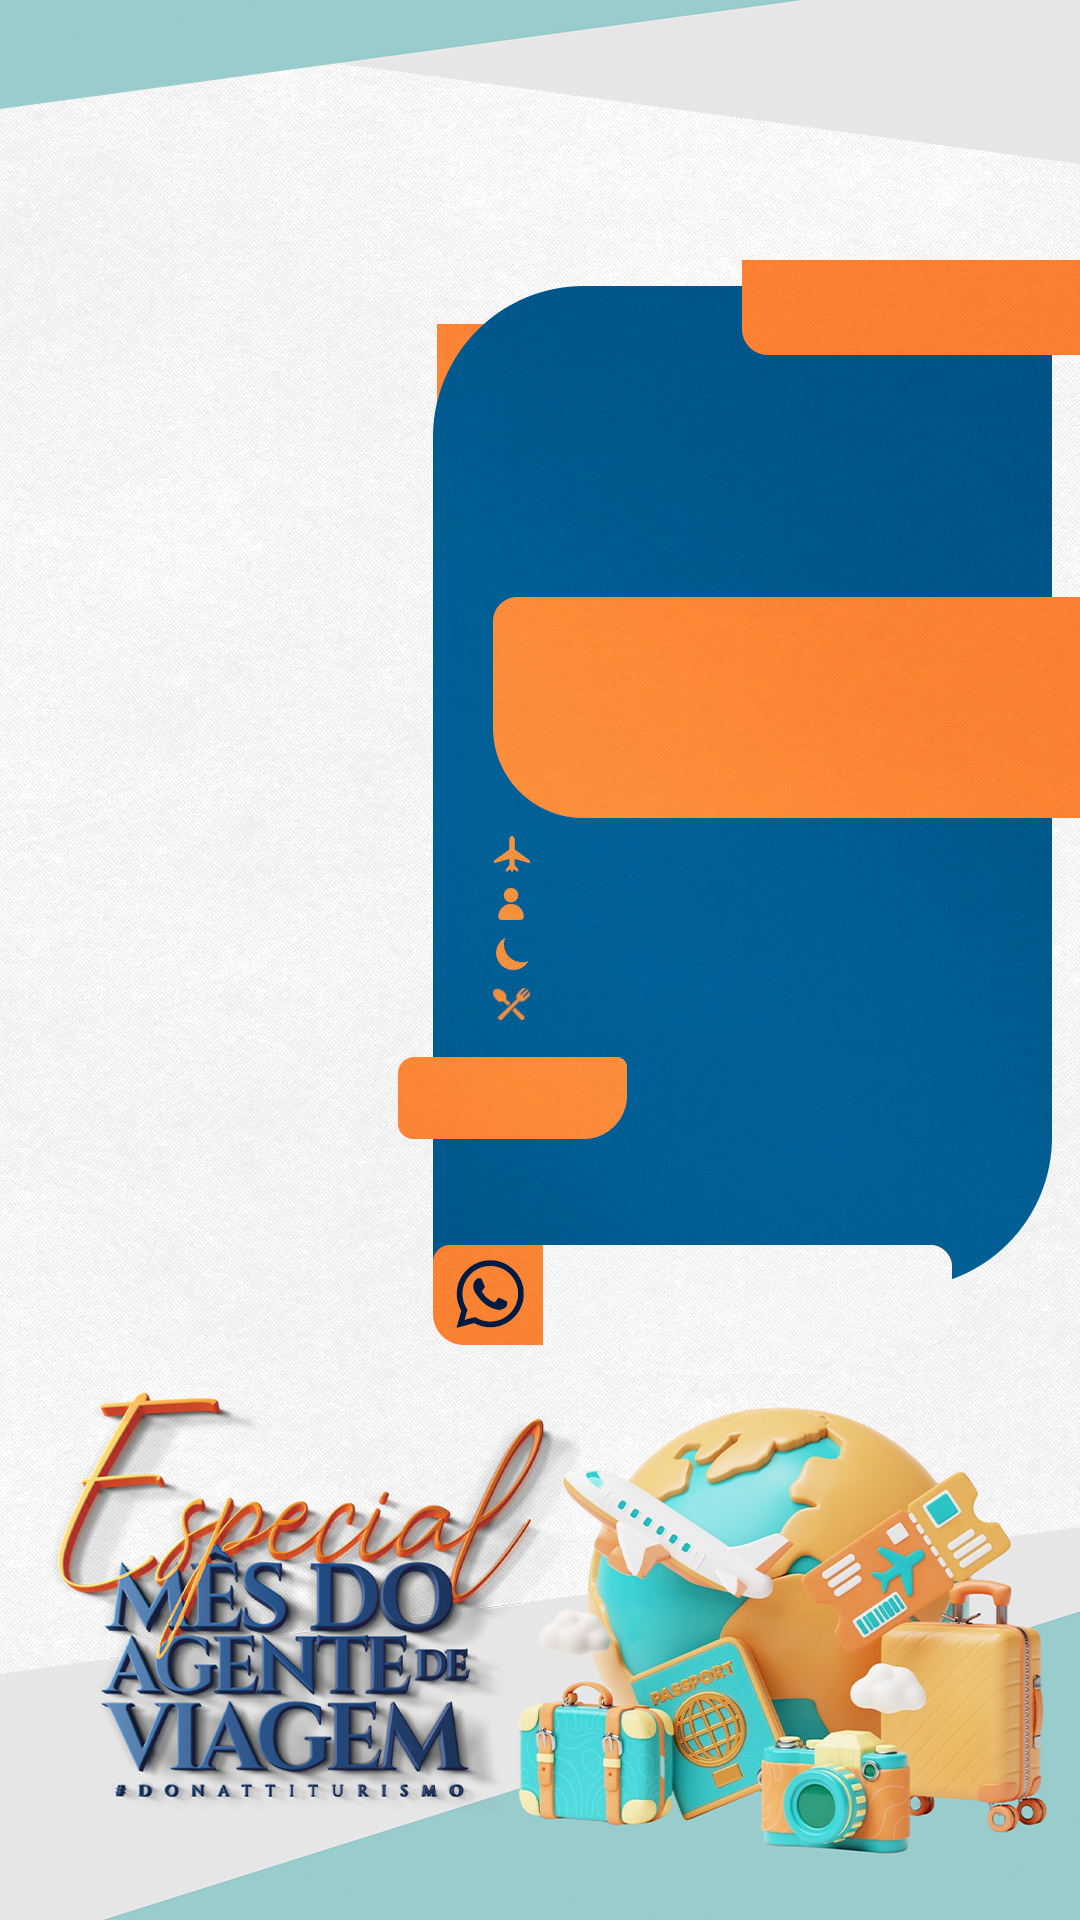
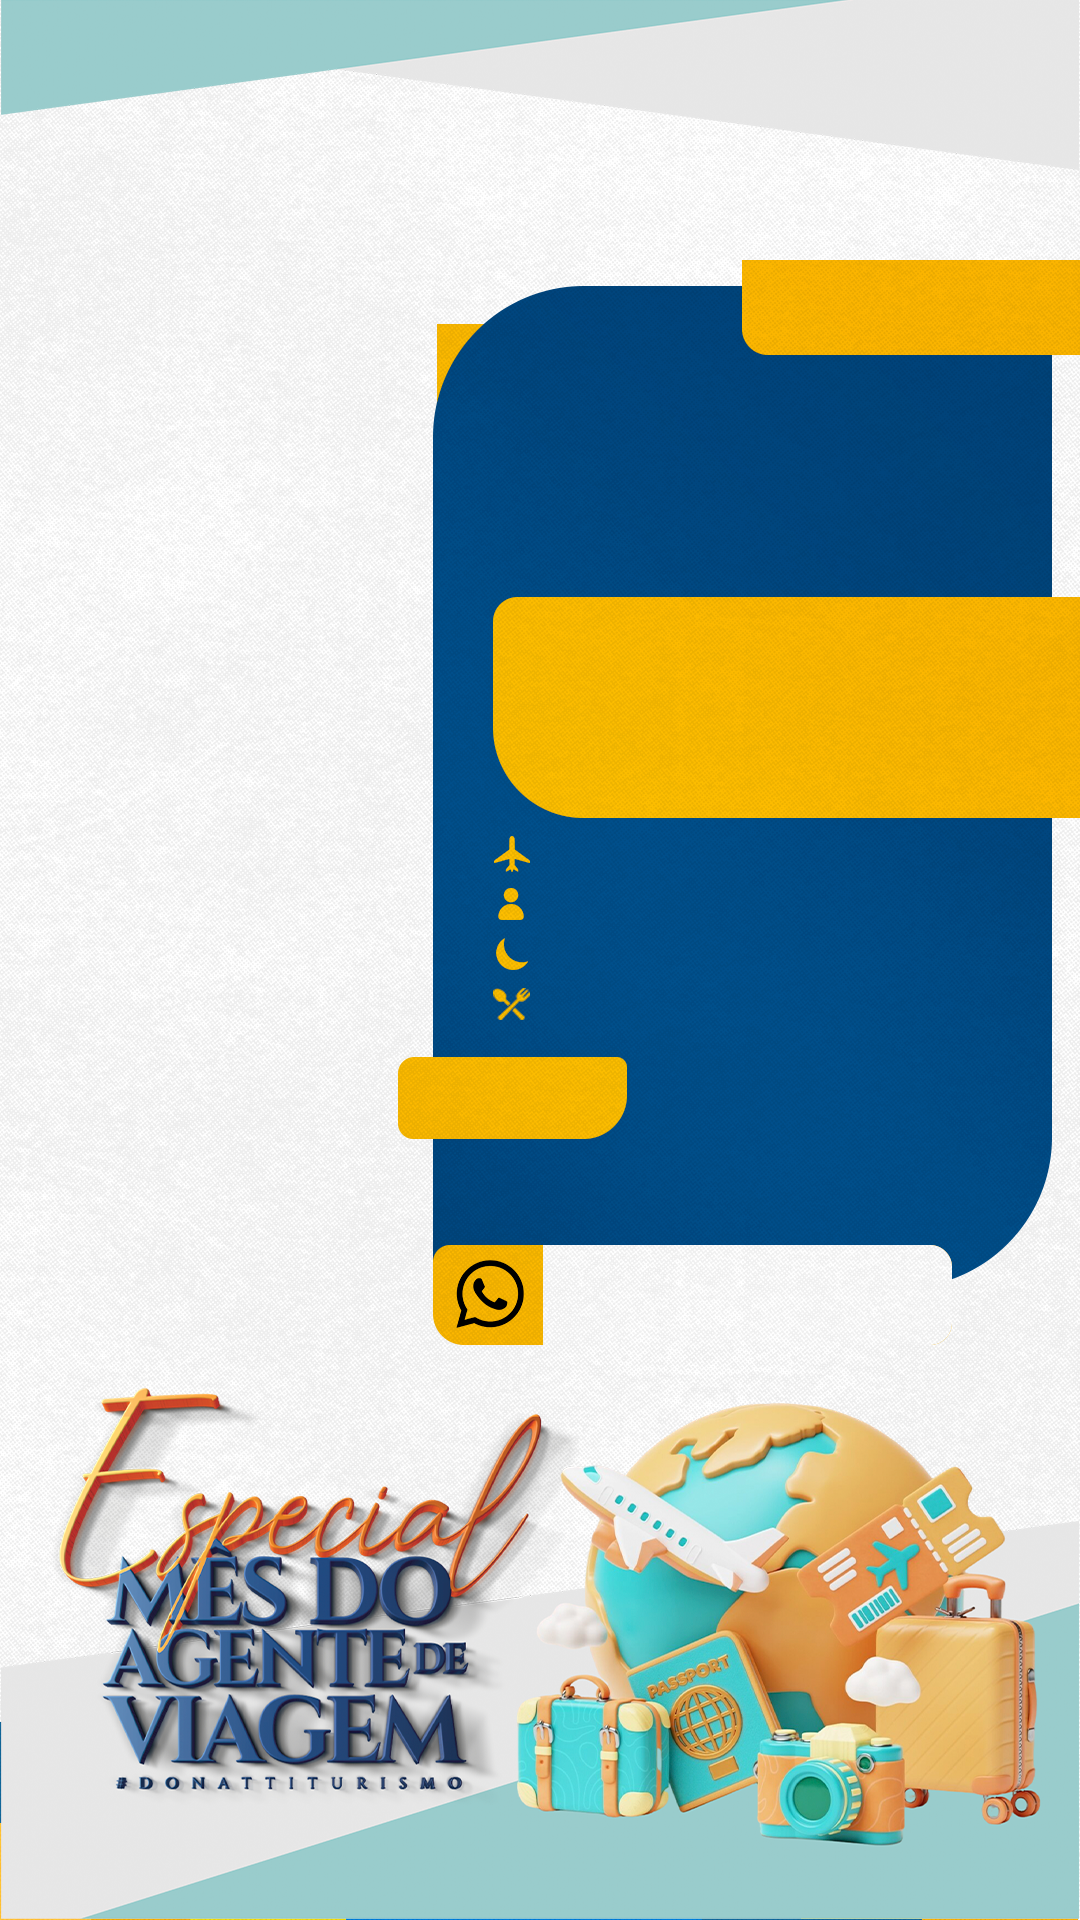
feat: update font colors in PromoImageGenerator for improved visibility

diff --git a/src/app/globals.css b/src/app/globals.css
@@ -94,25 +94,34 @@ body {
 }
 
 /* Fonte Neo Sans para o gerador de promoções */
+
 @font-face {
-  font-family: "Neo Sans";
-  src: url("/fonts/NeoSans.woff2") format("woff2"), url("/fonts/NeoSans.woff") format("woff");
+  font-family: "NeoSans";
+  src: url("/fonts/NeoSansW1G-Regular.woff2") format("woff2");
   font-weight: normal;
   font-style: normal;
   font-display: swap;
 }
 
 @font-face {
-  font-family: "Neo Sans";
-  src: url("/fonts/NeoSans-Bold.woff2") format("woff2"), url("/fonts/NeoSans-Bold.woff") format("woff");
-  font-weight: bold;
+  font-family: "NeoSans";
+  src: url("/fonts/NeoSansW1G-Medium.woff2") format("woff2");
+  font-weight: 500;
   font-style: normal;
   font-display: swap;
 }
 
 @font-face {
-  font-family: "Neo Sans";
-  src: url("/fonts/NeoSans-Black.woff2") format("woff2"), url("/fonts/NeoSans-Black.woff") format("woff");
+  font-family: "NeoSans";
+  src: url("/fonts/NeoSansW1G-Bold.woff2") format("woff2");
+  font-weight: 700;
+  font-style: normal;
+  font-display: swap;
+}
+
+@font-face {
+  font-family: "NeoSans";
+  src: url("/fonts/NeoSansW1G-Bold.woff2") format("woff2");
   font-weight: 900;
   font-style: normal;
   font-display: swap;

diff --git a/src/components/promos/PromoImageGenerator.tsx b/src/components/promos/PromoImageGenerator.tsx
@@ -213,13 +213,13 @@ export function PromoImageGenerator({ promo }: PromoImageGeneratorProps) {
               </div>
 
               {/* Destination */}
-              <div className="absolute top-[360px] left-[480px] text-[#ea823b] text-6xl font-black">{promo.DESTINO}</div>
+              <div className="absolute top-[360px] left-[480px] text-[#eab400] text-6xl font-black">{promo.DESTINO}</div>
 
               {/* Hotel */}
               <div className="absolute top-[450px] left-[480px] text-white text-4xl font-bold">{promo.HOTEL}</div>
 
               {/* Date */}
-              <div className="absolute top-[530px] left-[480px] text-[#ea823b] text-4xl font-bold">
+              <div className="absolute top-[530px] left-[480px] text-[#eab400] text-4xl font-bold">
                 {formatDateRange()}
               </div>
 